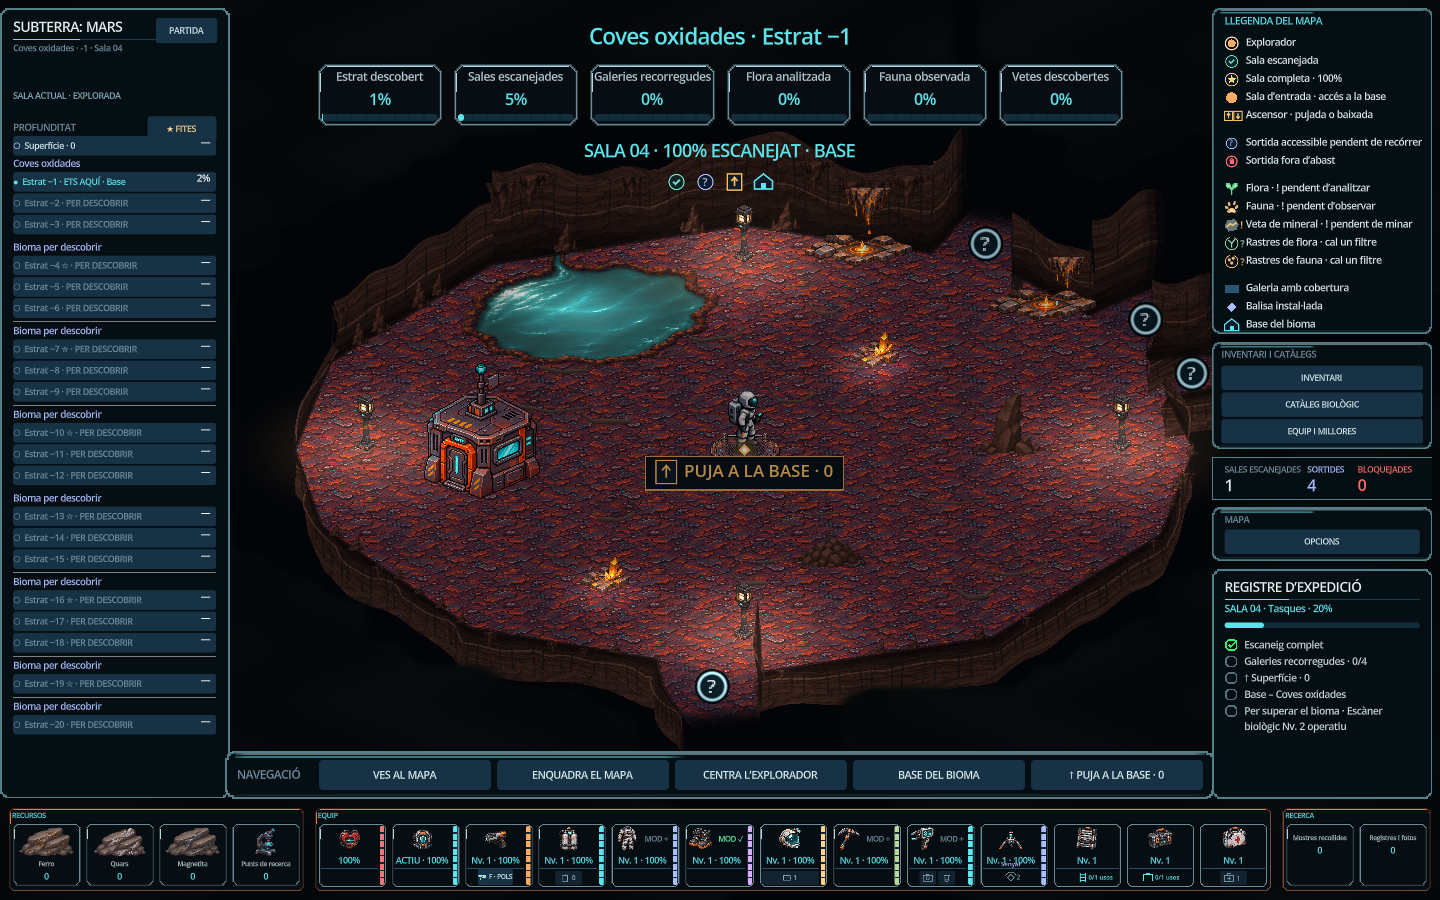
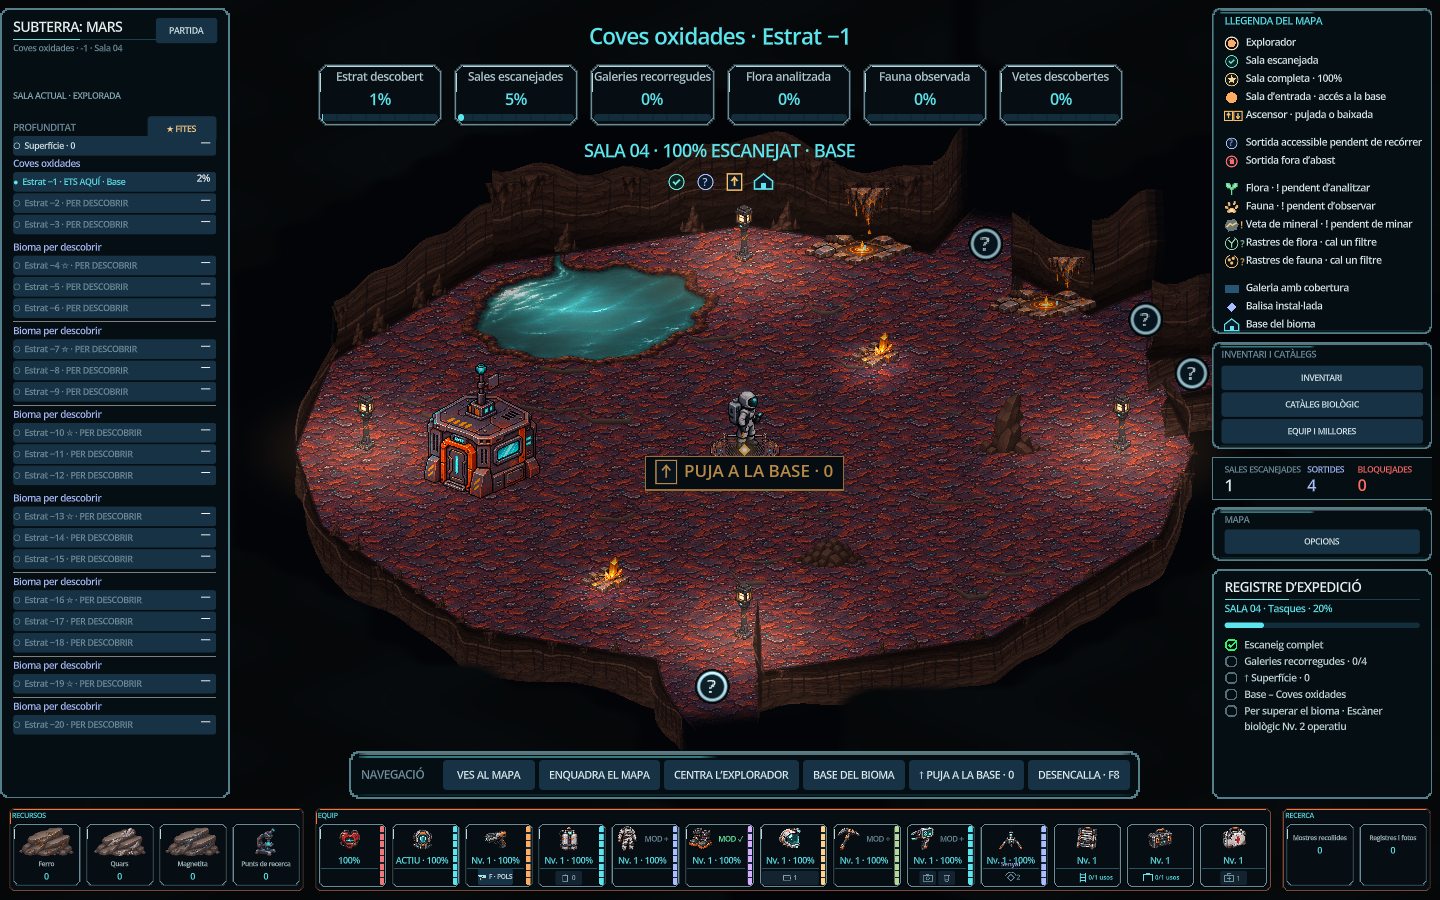
Compacta la barra de navegacio dins la vista central

Changed region(s): [[0.1562, 0.8089, 0.8438, 0.9022]]

diff --git a/docs/ESTAT_PROJECTE.md b/docs/ESTAT_PROJECTE.md
@@ -1090,3 +1090,9 @@ Verificat wall_openings_preview.gd en OpenGL, sis boques amb galeries parcials/c
 Afegit botó DESENCALLA · F8 a l’extrem final de la barra de navegació, amb el mateix estil i distribució adaptable. Connecta a la mateixa recuperació local que F8 i Opcions. Disponible en mapa/isomètric subterranis.
 
 Verificat unstuck_check.gd headless: senyal del botó al mapa i tecla F8 en isomètric executen recuperació sense canviar reserves/món. Sense errors de script; quatre ObjectDB pendents en sortir del visor. Sense nova inspecció visual ni partida manual.
+
+### Navegació compacta entre panells — 21/11/2026
+
+Botons de navegació ajustats a l’amplada real del text més 20 píxels, mínim 92, amb separació de 4. La barra es centra i limita a _view_rect (espai entre panells), en lloc d’ocupar tota l’amplada de la finestra i quedar tapada pel panell dret després d’afegir Desencalla.
+
+Verificat service_pan_check.gd OpenGL i inspeccionada oxidat_mes_suau.png: tots els botons, inclòs Desencalla al final, dins l’espai central. Sense errors; dues instàncies ObjectDB pendents en sortir del visor. Sense partida manual.
